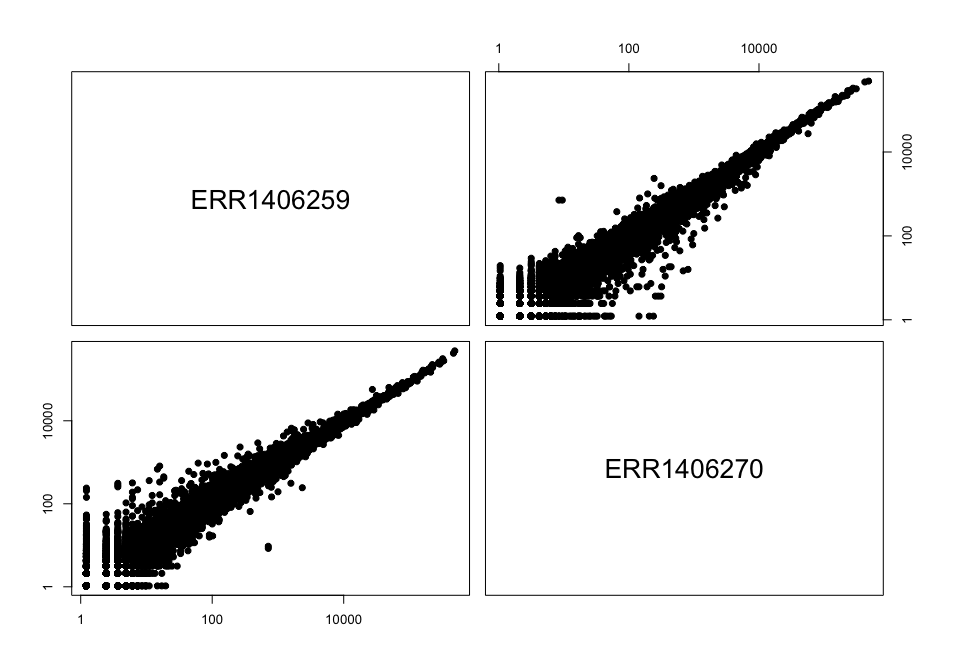
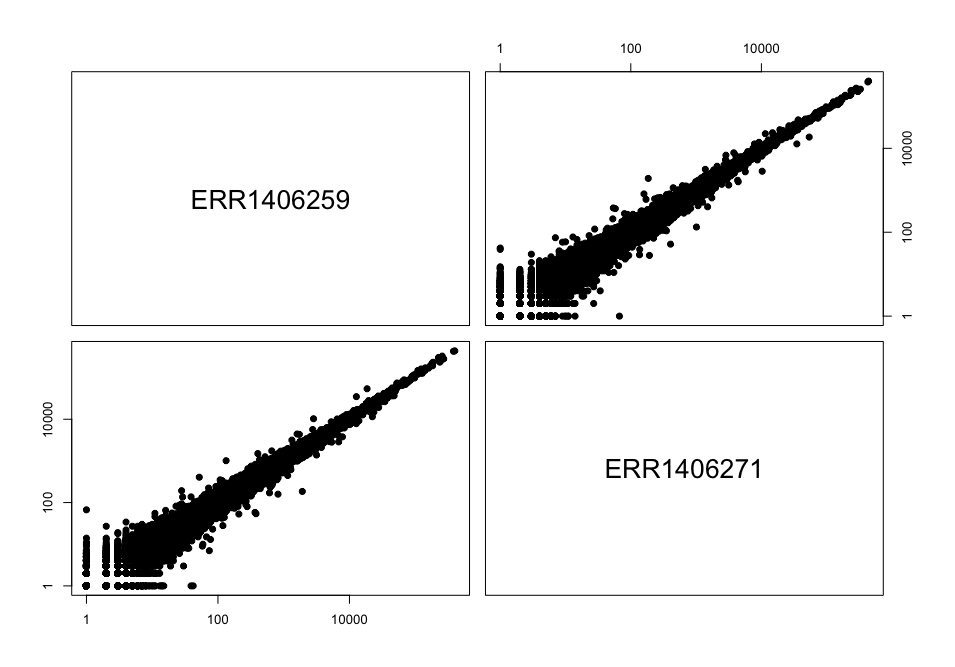
add PCA plot and sample to sample correlations

diff --git a/_episodes/05-descriptive-plots.md b/_episodes/05-descriptive-plots.md
@@ -21,7 +21,7 @@ keypoints:
 1. [Introduction](#introduction)
 2. [Normalization](#normalization)
 3. [DESeq2 count normalization](#deseq2-count-normalization)
-4. [Sample clustering](#sample-clustering)
+4. [Sample correlations](#sample-correlations)
 5. [Principal Component Analysis](#principal-component-analysis)
 
 
@@ -180,13 +180,6 @@ xp_design <- read.delim("experimental_design_modified.txt", header = T, stringsA
 
 # change col names
 colnames(xp_design) <- c("sample", "seed", "infected", "dpi")
-
-# Filter design file: keep only mock versus infected
-xp_design_mock_vs_infected = xp_design %>% filter(seed == "MgCl2" & dpi == "7") 
-
-# Filter count file accordingly (so the rows correspond to the columns of the filtered xp_design file)
-counts_filtered = counts[, colnames(counts) %in% xp_design_mock_vs_infected$sample]
-
 ~~~
 {: .language-r}
 
@@ -203,8 +196,8 @@ We should always make sure that we have sample names that match between the two 
 
 ```r
 ### Check that sample names match in both files
-all(colnames(counts_filtered) %in% rownames(xp_design_mock_vs_infected))
-all(colnames(counts_filtered) == rownames(xp_design_mock_vs_infected))
+all(colnames(counts) %in% rownames(xp_design)
+all(colnames(counts) == rownames(xp_design)
 ```
 
 If your data did not match, you could use the `match()` function to rearrange them to be matching.
@@ -218,26 +211,15 @@ Let's start by creating the `DESeqDataSet` object and then we can talk a bit mor
 
 ~~~
 # Creation of the DESeqDataSet object
-dds <- DESeqDataSetFromMatrix(countData = counts_filtered, 
-                              colData = xp_design_mock_vs_infected, 
-                              design = ~ infected)
-
-
-# extract the normalised counts
-counts_normalised = counts(dds, normalized = TRUE)
+dds <- DESeqDataSetFromMatrix(countData = counts, 
+                              colData = xp_design, 
+                              design = ~ seed + infected + dpi) # the model does not matter here 
 ~~~
 {: .language-r}
 
+We now have a `DESeqDataSet` object that contains both count data and experimental metadata ("data about the data").
+
 ![deseq1](../img/deseq_obj1.png)
-
-
-You can use DESeq-specific functions to access the different slots and retrieve information, if you wish. For example, suppose we wanted the original count matrix we would use `counts()` (*Note: we nested it within the `View()` function so that rather than getting printed in the console we can see it in the script editor*) :
-
-```r
-View(counts(dds))
-```
-
-As we go through the workflow we will use the relevant functions to check what information gets stored inside our object.
 
 ### 3. Generate normalized counts
 
@@ -260,53 +242,63 @@ sizeFactors(dds)
 
 We can also plot these size factors. 
 ~~~
-# create a dataframe for convenience
 size_factors_df <- data.frame(sample = names(sizeFactors(dds)), 
                               size = sizeFactors(dds))
 
 # add the experimental condition of interest for plot labelling
-size_factors_df <- left_join(size_factors_df, xp_design_mock_vs_infected, by = "sample")
+size_factors_df <- left_join(size_factors_df, xp_design, by = "sample")
+
+# sort by seed condition and by infected condition
+size_factors_df <- size_factors_df %>% 
+  arrange(seed, infected)
+
+size_factors_df$sample = factor(size_factors_df$sample, levels = size_factors_df$sample)
 
 # plot
-ggplot(size_factors_df, aes(x = sample, y = size, colour = infected)) + 
+ggplot(size_factors_df, aes(x = sample, y = size, colour = seed)) + 
   geom_segment(aes(x = sample, xend = sample, y = 0, yend = size), color="grey") +
   geom_point(size = 6) + 
   coord_flip() +
-  theme_grey()
+  theme_grey() +
+  facet_wrap(~ infected)
 ~~~
 {:.language-r}
 
-This plot indicates that size factors are all between 0.75 and 1.5 so relatively close to each other. 
+This plot indicates that size factors are all between \~0.70 and \~1.8 so relatively close to each other. 
 
-<img src="../img/size_factors_mock_pseudomonas.png" width="800px" alt="experimental design" >
+<img src="../img/size_factors_all.png" width="800px" alt="experimental design" >
 
+You can use DESeq-specific functions to access the different slots and retrieve information, if you wish. For example, suppose we wanted the original count matrix we would use `counts()`. For instance, to retrieve the normalized counts matrix from `dds`, we use the `counts()` function and add the argument `normalized=TRUE`.
+~~~
+# extract the normalised counts
+counts_normalised = counts(dds, normalized = TRUE)
 
-Now, to retrieve the normalized counts matrix from `dds`, we use the `counts()` function and add the argument `normalized=TRUE`.
+# we reorder samples according to their conditions
+counts_normalised = counts[, xp_design$sample]
+~~~
+{: .language-r}
 
-```r
-normalized_counts <- counts(dds, normalized=TRUE)
-```
+As we go through the workflow we will use the relevant functions to check what information gets stored inside our object.
 
 We can save this normalized data matrix to file for later use:
 
-```r
-write.table(normalized_counts, file = "data/normalized_counts.txt", sep = "\t", quote = F, col.names = NA)
-```
+~~~
+write.table(counts_normalised, file = "data/normalized_counts.txt", sep = "\t", quote = F, col.names = NA)
+~~~
+{: .language-r}
 
 > **NOTE:** DESeq2 doesn't actually use normalized counts to compute differentially expressed genes. Rather, it uses the raw counts and models the normalization inside the Generalized Linear Model (GLM). These normalized counts will be useful for downstream visualization of results, but cannot be used as input to DESeq2 or any other tools that peform differential expression analysis which use the negative binomial model.
 
-## Sample clustering
+## Sample correlations
 A first simple way to check the quality of the RNA-seq experiment based on the counts is to plot correlations between samples in the form of scatterplots. 
 
-We can first have a peek at two different comparisons between highly correlated samples. 
-
-The first scatterplot is to plot the gene counts of one sample against itself. In this case, the correlation coefficient _r_ will be equal to 1.
+The first scatterplot consist of the gene counts of one sample against itself. In this case, the correlation coefficient _r_ will be equal to 1.
 ~~~
-# plot
-pairs(x = counts_normalised[,c("ERR1406259","ERR1406259")],pch = 19, log = "xy")
+# plot the first column against the first column of the matrix
+pairs(x = counts_normalised[,c(1,1)],pch = 19, log = "xy")
 
 # actual values
-cor(counts_normalised[,c("ERR1406259","ERR1406259")])
+cor(counts_normalised[,c(1,1)])
 ~~~ 
 {: .language-r}
 
@@ -314,36 +306,67 @@ Trivial: if you correlate a sample with itself, it is a perfect correlation.
 
 <img src="../img/correlation_self.png" width="600px" alt="self-correlation plot" >
 
-We can also take two samples that are highly correlated and take a look at the corresponding scatterplot. 
-* ERR1406259: corresponds to condition MgCl2 / mock / 2 dpi.
-* ERR1406270: corresponds to condition S. melonis Fr1 / mock / 2 dpi. 
-
+Samples from the same biological conditions should be highly correlated to one another.
 ~~~
-# plot
-pairs(x = counts_normalised[,c("ERR1406259","ERR1406270")],pch = 19, log = "xy")
-
-# correlation values
-cor(counts_normalised[,c("ERR1406259","ERR1406270")])
+pairs(x = counts_normalised[,c(1:4)],pch = 19, log = "xy")
+cor(counts_normalised[,c(1:4)]) # consecutive numbers
 ~~~ 
 {: .language-r}
 
-<img src="../img/correlation_strong.png" width="600px" alt="highly correlated samples" >
+<img src="../img/correlation_between_biological_replicates.png" width="600px" alt="highly correlated samples" >
 
+Samples from different conditions should not be highly correlated. 
 ~~~
-# highly correlated samples 
-pairs(x = counts_normalised[,c("ERR1406264","ERR1406288")],pch = 19, log = "xy")
-
-# correlation values 
-cor(counts_normalised[,c("ERR1406264","ERR1406288")])
+# weakly correlated samples 
+pairs(x = counts_normalised[,c(1,9,17,25)],pch = 19, log = "xy")
+cor(counts_normalised[,c(1,9,17,25)])
 ~~~
 {: .language-r}
 
-<img src="../img/correlation_weaker.png" width="600px" alt="weakly correlated samples" >
+<img src="../img/correlation_different_conditions.png" width="600px" alt="weakly correlated samples" >
 
 ## Principal Component Analysis
+Perform a principal component analysis (PCA) in which multivariate data (i.e. more than 1 variable) is transformed to a new coordinate system in which each component (axis) explains as as much variance as possible. PCA therefore can be used to visualize (and summarize) the distance between objects (and variables) from a multi-dimensional space to a 2 dimensional plot.
+
+In the context of an RNA-seq experiment, it can be used to visualize the differences (distances) between samples and how it relates to the experimental design.
 
 
+The PCA plot, log transform the data to prevent that the largest values will dominate the analyses. Center the data in order to be to analyze the relation between the objects and not the relation of the objects between the origin (0).
+~~~
+# transform
+counts_norm_trans = t(scale(t(log10(counts_normalised + 1)),scale=FALSE,center = TRUE))
 
+# perform the PCA analysis
+pca <- princomp(counts_norm_trans)
+
+# plot the percentage of variance explained by the 10 first principal components
+screeplot(pca, ylim=c(0,0.25))
+~~~
+
+<img src="../img/screeplot.png" width="600px" alt="Screeplot" >
+
+Let's plot the samples along the two first components that explain \~40% of the total variance.
+~~~
+# copy the data from the first 2 components
+T12 = as.data.frame(pca$loadings[,1:2])
+
+# add the experimental design data to the PCA data.frame
+T12c <- cbind.data.frame(T12, xp_design)
+
+# calculate the explained variance per component
+explained_var = round(x = pca$sdev^2 / sum(pca$sdev^2)*100, digits = 1)
+
+# plot the PCA score plot
+p <- ggplot(data = T12c, aes(x = Comp.1, y = Comp.2, col = seed, shape = infected, size = dpi)) + 
+              geom_point() + 
+              xlab(paste0('PC1(',explained_var[1],'%)')) + 
+              ylab(paste0('PC2(',explained_var[2],'%)')) + 
+  ggtitle('PCA log10 transformed (centered) data')
+
+~~~
+{: .language-r}
+
+<img src="../img/pca_all_factors.png" width="800px" alt="complete PCA" >
 
 ## Estimation of the dispersion
 For Master level!

diff --git a/_episodes/06-differential-analysis.md b/_episodes/06-differential-analysis.md
@@ -3,10 +3,10 @@ title: "Differential expression analysis"
 teaching: 30
 exercises: 60 
 questions:
-- "Q1"
-- "Q2"
-- "Q3"
-- "Q4"
+- "What are factor levels and why is it important for different expression analysis?"
+- "How can I call the genes differentially regulated in response to my experimental design?"
+- "What is a volcano plot and how can I create one?"
+- "What is a heatmap and how can it be informative for my comparison of interest?"
 objectives:
 - "O1"
 - "O2"
@@ -27,8 +27,11 @@ keypoints:
 
 ## Introduction
 
-In this episode, we will see how to perform a simple one-condition experimental comparison. We will compare the transcriptome of Arabidopsis in response to infection by the leaf pathogenic bacteria _Pseudomonas syringae DC3000_ after 7 days (7 dpi). 
+Differential expression analysis is the process of determining which of the genes are significantly affected by my experimental design. In the example study that we use, Arabidopsis plants were for instance infected or not by a pathogenic bacteria called _Pseudomonas syringae_ DC3000. One comparison of interest could be to determine which of the Arabidopsis leaf genes are transcriptionally affected by the presence of this pathogenic bacteria.
 
+In this episode, we will see how to perform a simple one-condition experimental comparison with `DESeq2`. We will compare the transcriptome of Arabidopsis in response to infection by the leaf pathogenic bacteria _Pseudomonas syringae_ DC3000 after 7 days (7 dpi). 
+
+This will yield a table containing genes $$log_{2}$$ fold change and their corrected p-values. We will also see how to create a few typical representations classically used to display RNA-seq results. 
 
 ## Creating the DESeqDataSet object
 We are first going to import the count file and the experimental design file required to build
@@ -175,7 +178,7 @@ So in our case, since we specified `contrast = c("infected", "Pseudomonas_syring
 
 Additional information on the DESeqResult columns is available using the `mcols` function. 
 ~~~
-mcols(resLFC)
+mcols(res)
 ~~~
 {: .language-r}
 
@@ -257,7 +260,7 @@ Shrinkage of effect size (LFC estimates) is useful for visualization and ranking
 ~~~
 resLFC <- lfcShrink(dds = dds, 
                   res = res,
-                  type = "apeglm",
+                  type = "normal",
                   coef = 2) # corresponds to "infected_Pseudomonas_syringae_DC3000_vs_mock" comparison
 ~~~
 {: .language-r}
@@ -388,7 +391,7 @@ After applying the $$log_{10}$$ transformation, gene expression levels become mo
 
 
 ### Grouping genes by profiles
-One interesting feature of the 
+One interesting feature of the heatmap visualisation is the ability to group genes by their expression profile. Similarly to the 
 
 
 ### Filtering out the non-differentially expressed genes
